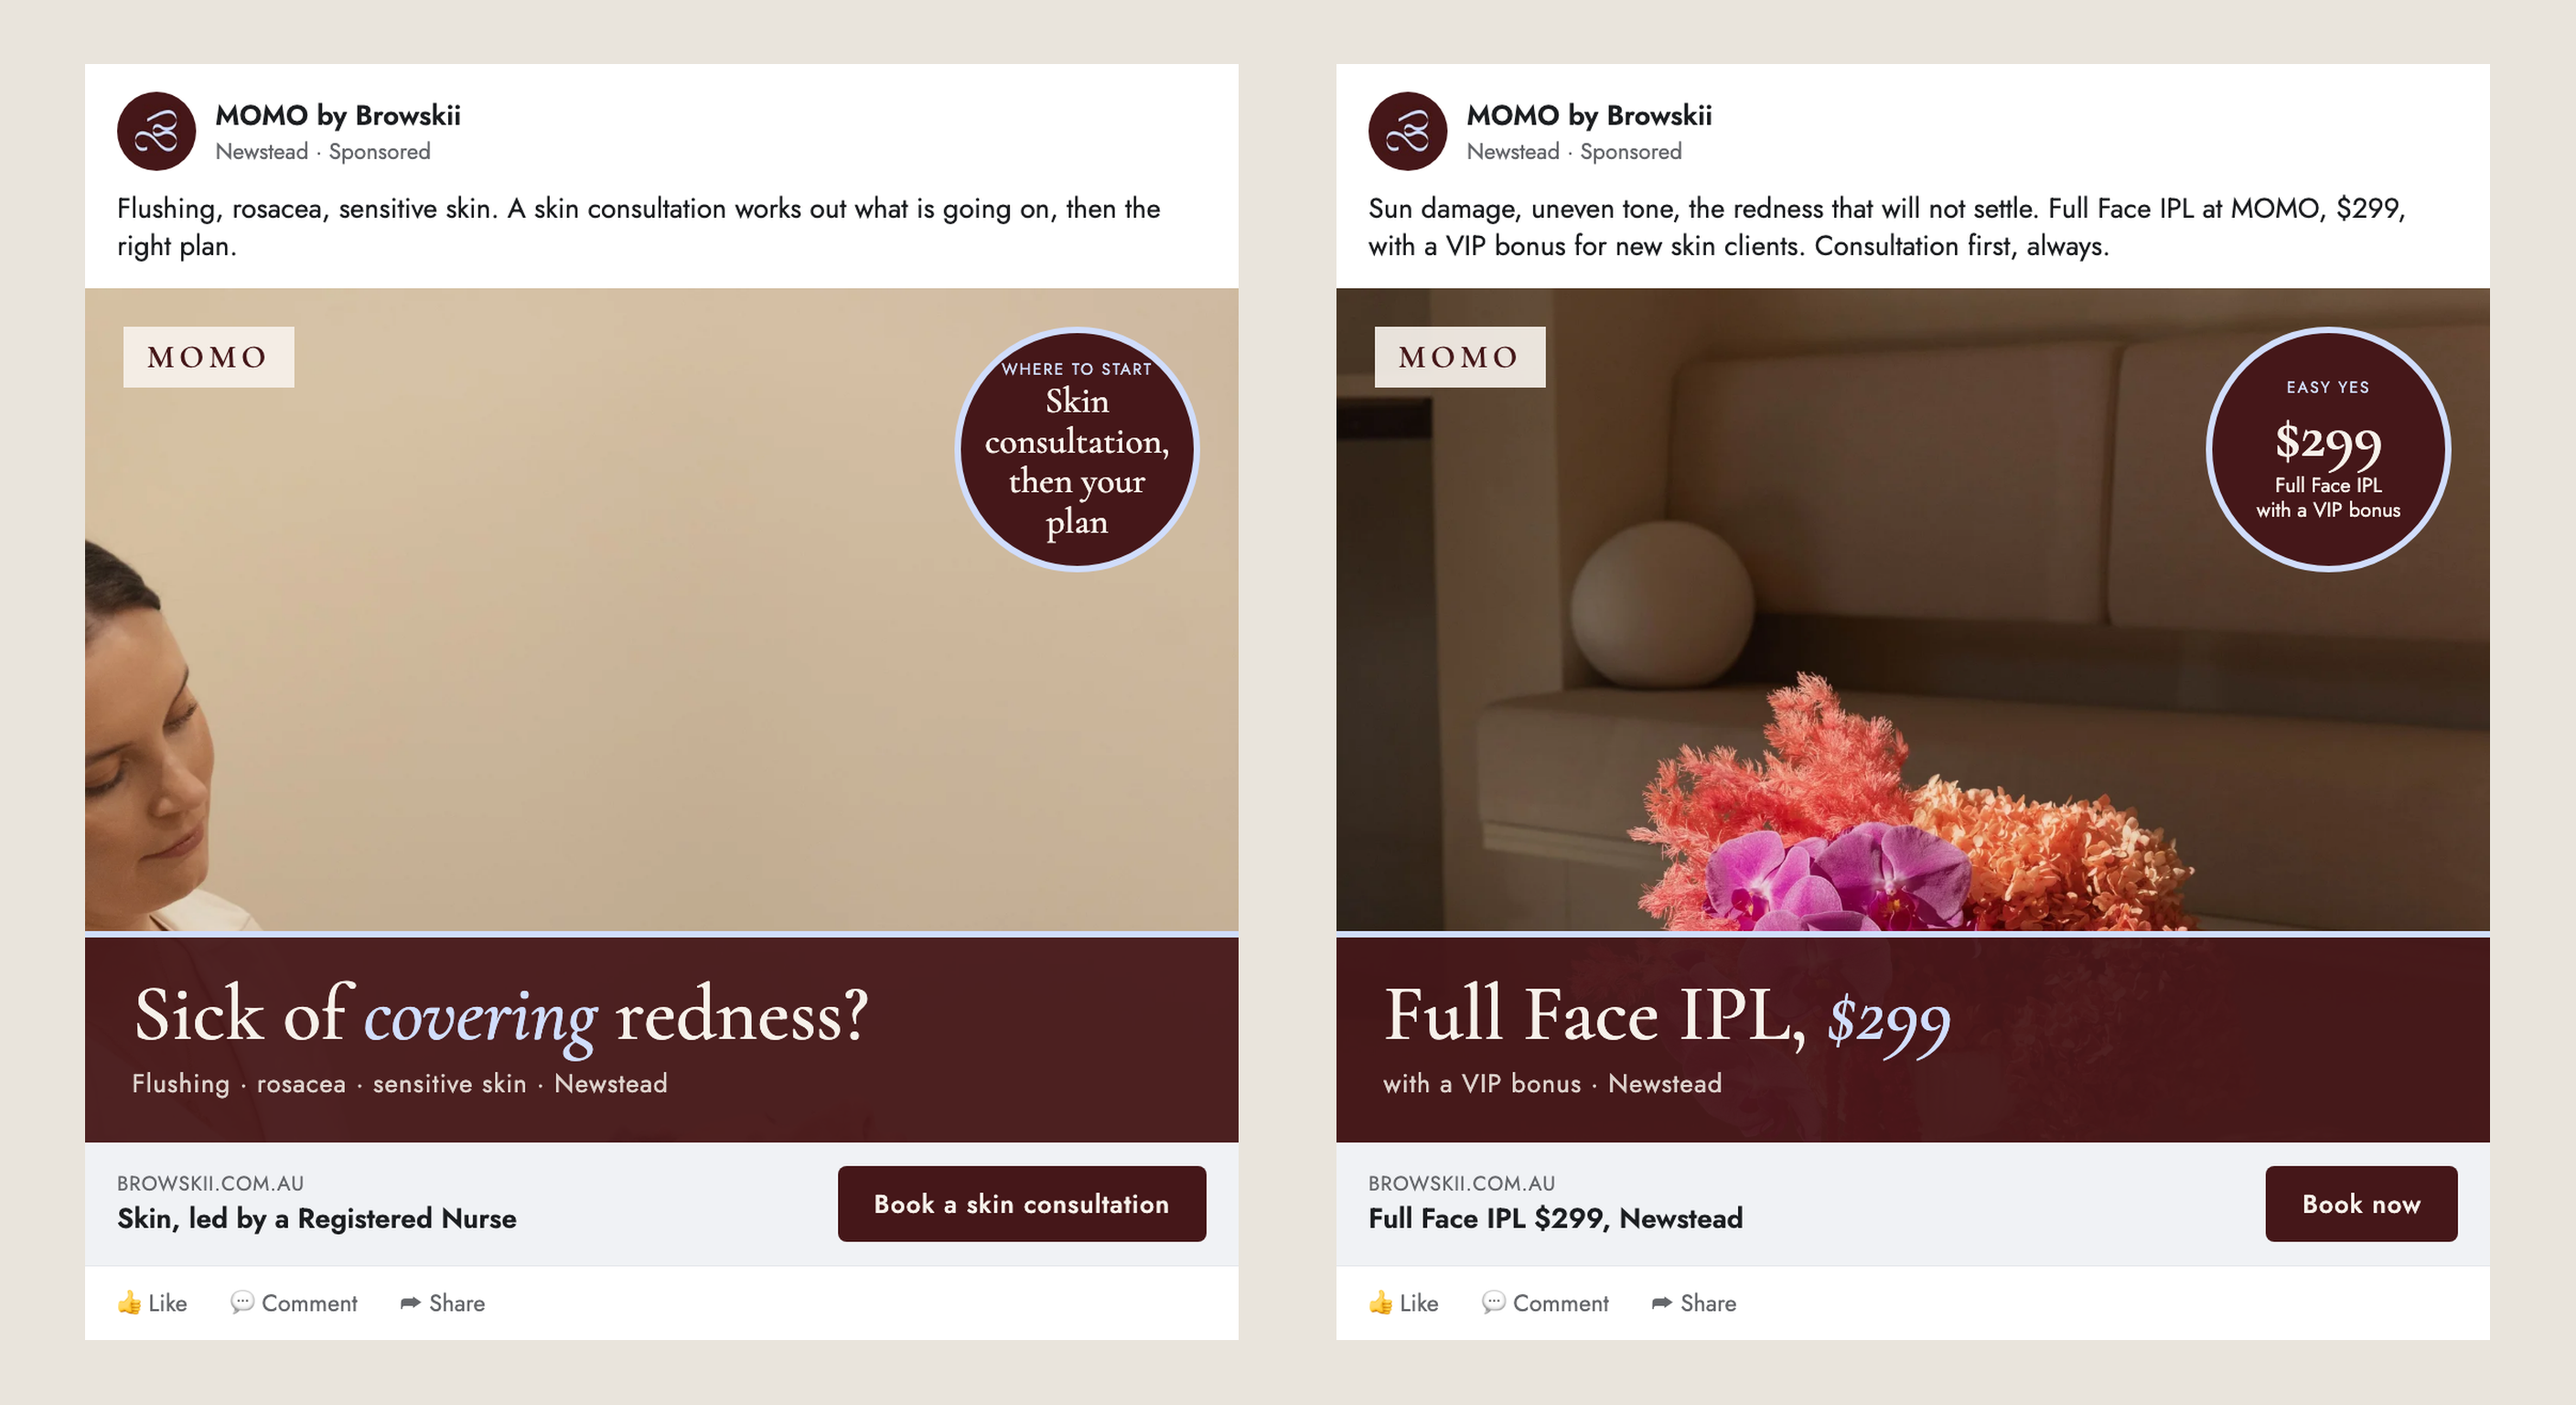
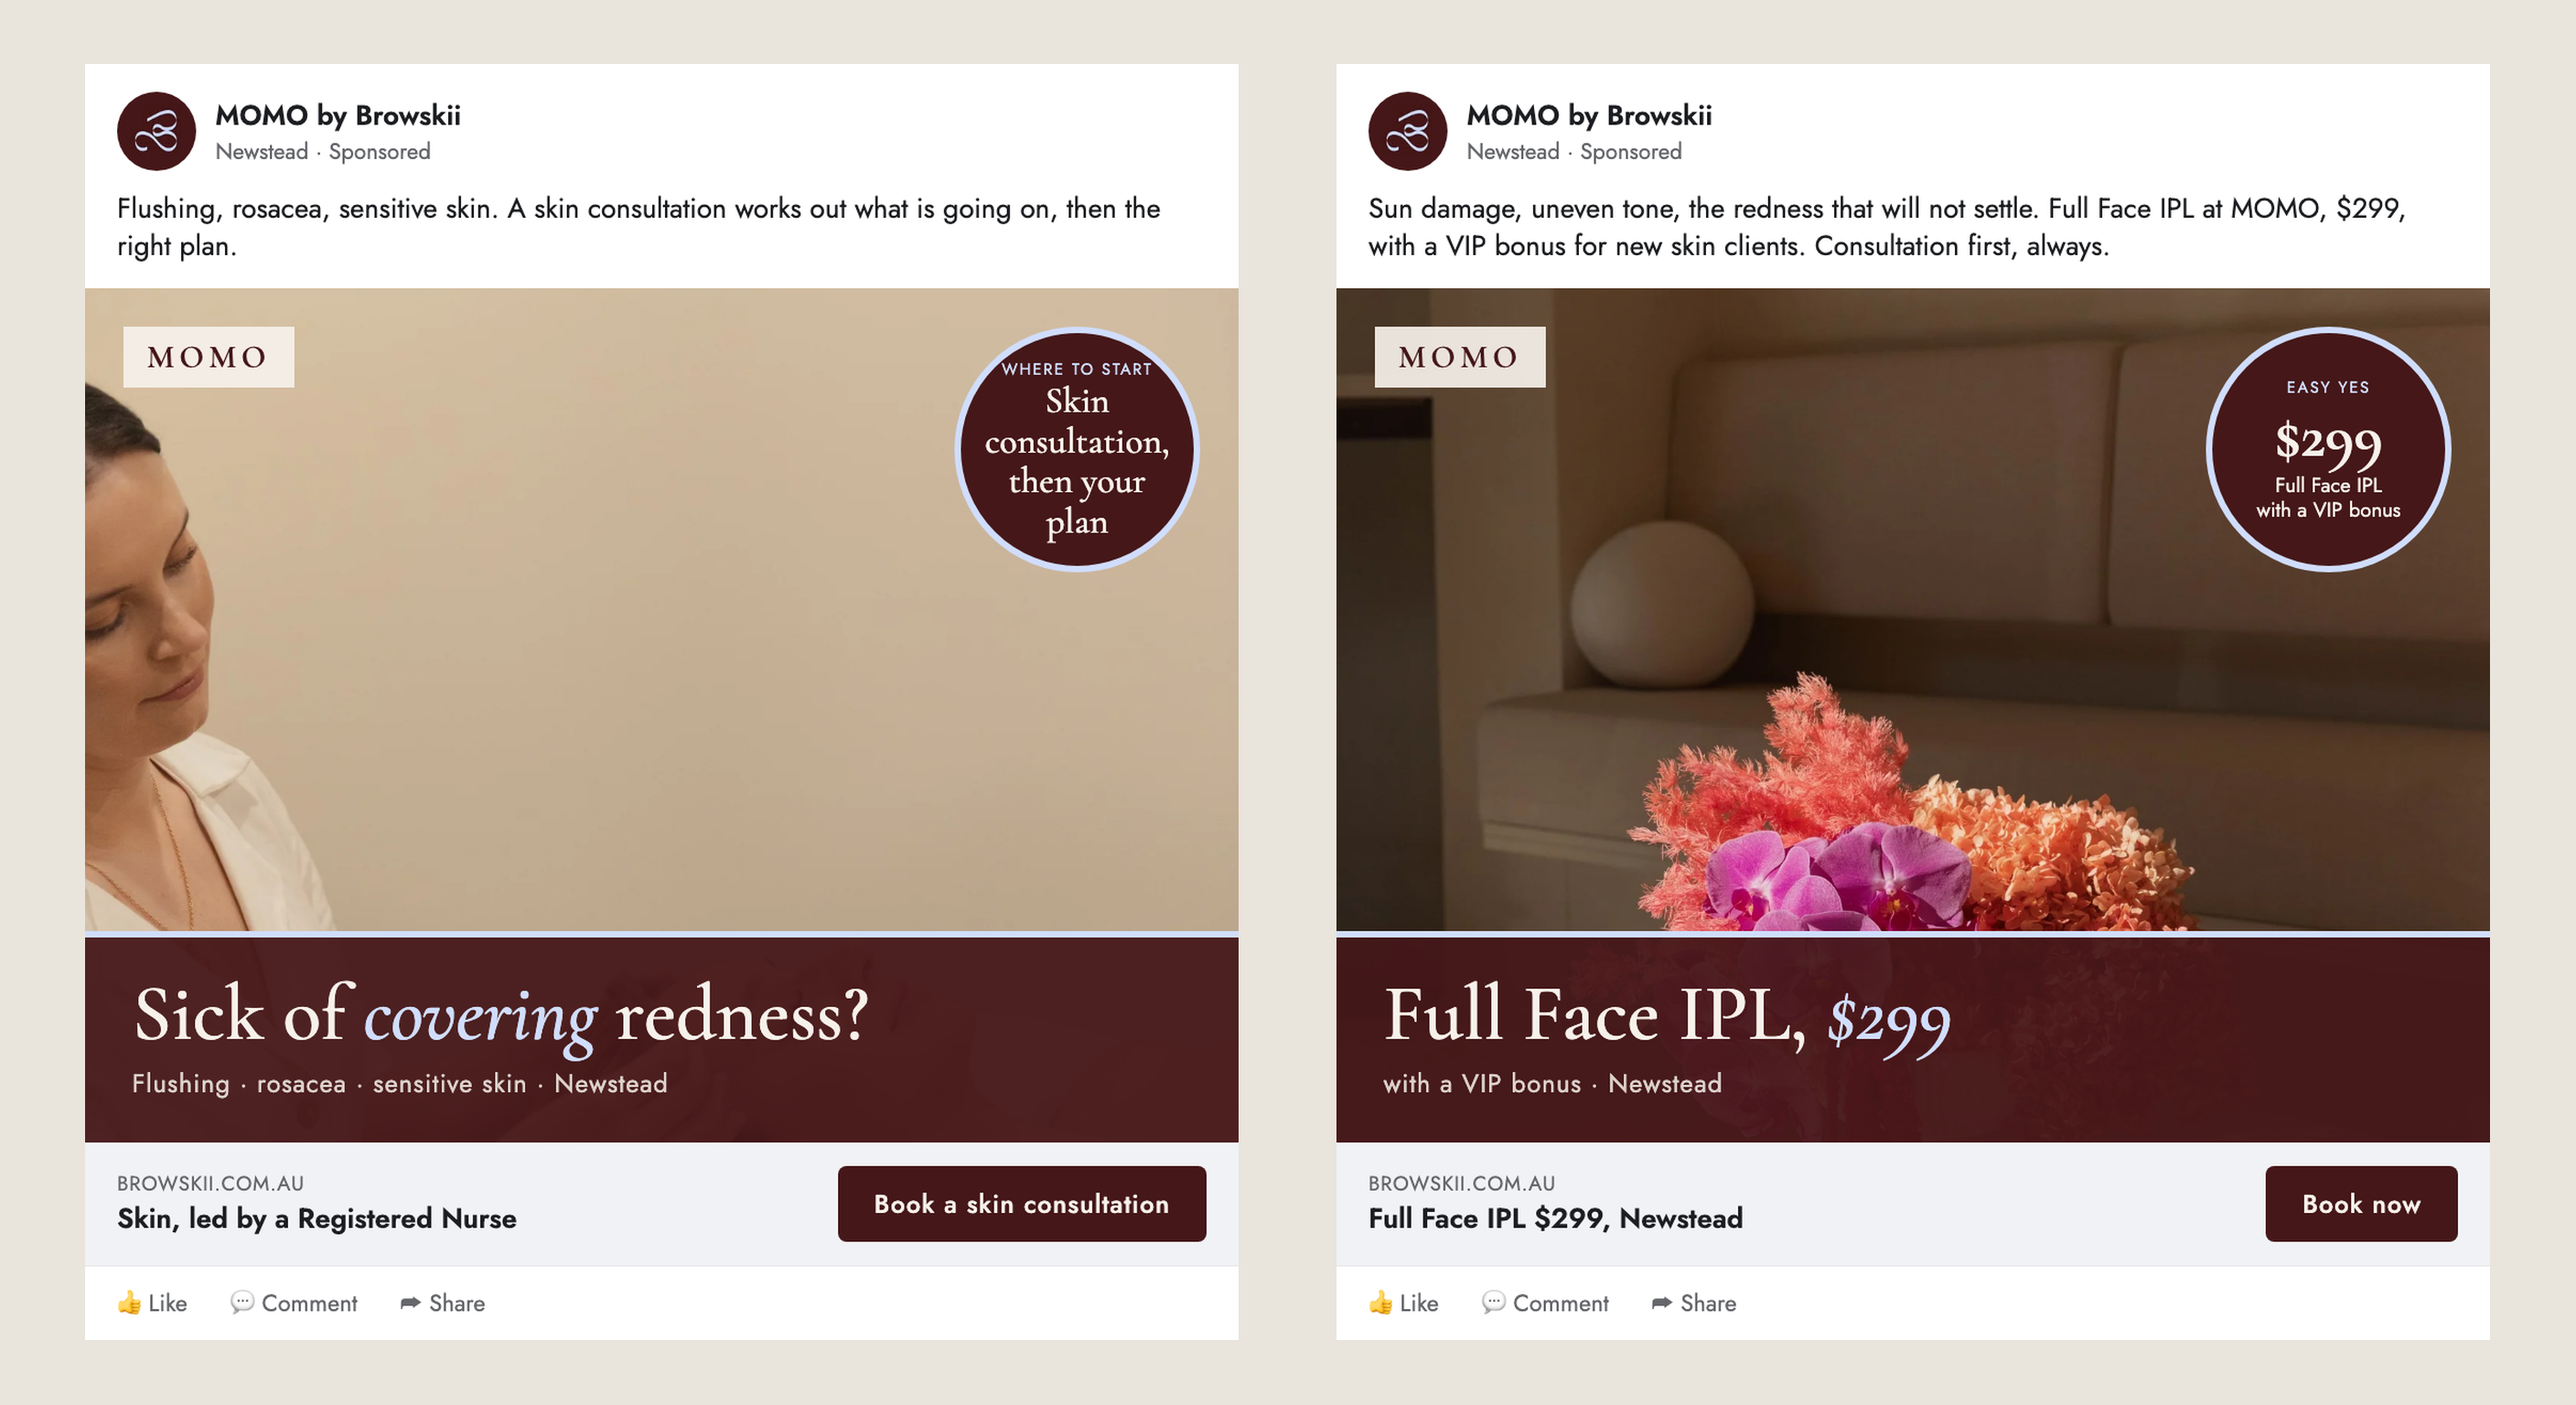
Link gallery mockup, recrop ad one

Changed region(s): [[0.0312, 0.2812, 0.125, 0.6875]]

diff --git a/index.html b/index.html
@@ -430,7 +430,7 @@ p { font-size:0.9rem; color:var(--text-mid); font-weight:300; line-height:1.8; }
         <p style="font-size:0.78rem; color:var(--text-mid); margin-bottom:0.7rem;">Two galleries, two compliance rules, one conversion machine:</p>
         <div style="background:rgba(0,180,160,0.06); border:1px solid rgba(0,180,160,0.25); border-radius:6px; padding:0.6rem 0.85rem; margin-bottom:0.5rem;">
           <p style="font-size:0.68rem; color:var(--teal-bright); font-family:'Montserrat',sans-serif; font-weight:700; letter-spacing:0.08em; text-transform:uppercase; margin-bottom:0.15rem;">Public Gallery</p>
-          <p style="font-size:0.78rem; color:var(--text-mid); line-height:1.45; margin:0;">Brows, lashes, cosmetic tattoo and skin results live on the site with a scroller and content warning. Redness journeys become the proof for the rosacea campaign.</p>
+          <p style="font-size:0.78rem; color:var(--text-mid); line-height:1.45; margin:0;">Brows, lashes, cosmetic tattoo and skin results live on the site with a scroller and content warning. Redness journeys become the proof for the rosacea campaign. <a href="https://clinic-catalyst-au.github.io/browskii/gallery.html" target="_blank" style="color:var(--teal-bright);">See the gallery mockup &#8594;</a></p>
         </div>
         <div style="background:rgba(232,168,124,0.08); border:1px solid rgba(232,168,124,0.3); border-radius:6px; padding:0.6rem 0.85rem; margin-bottom:0.7rem;">
           <p style="font-size:0.68rem; color:var(--peach); font-family:'Montserrat',sans-serif; font-weight:700; letter-spacing:0.08em; text-transform:uppercase; margin-bottom:0.15rem;">Password-Protected</p>
